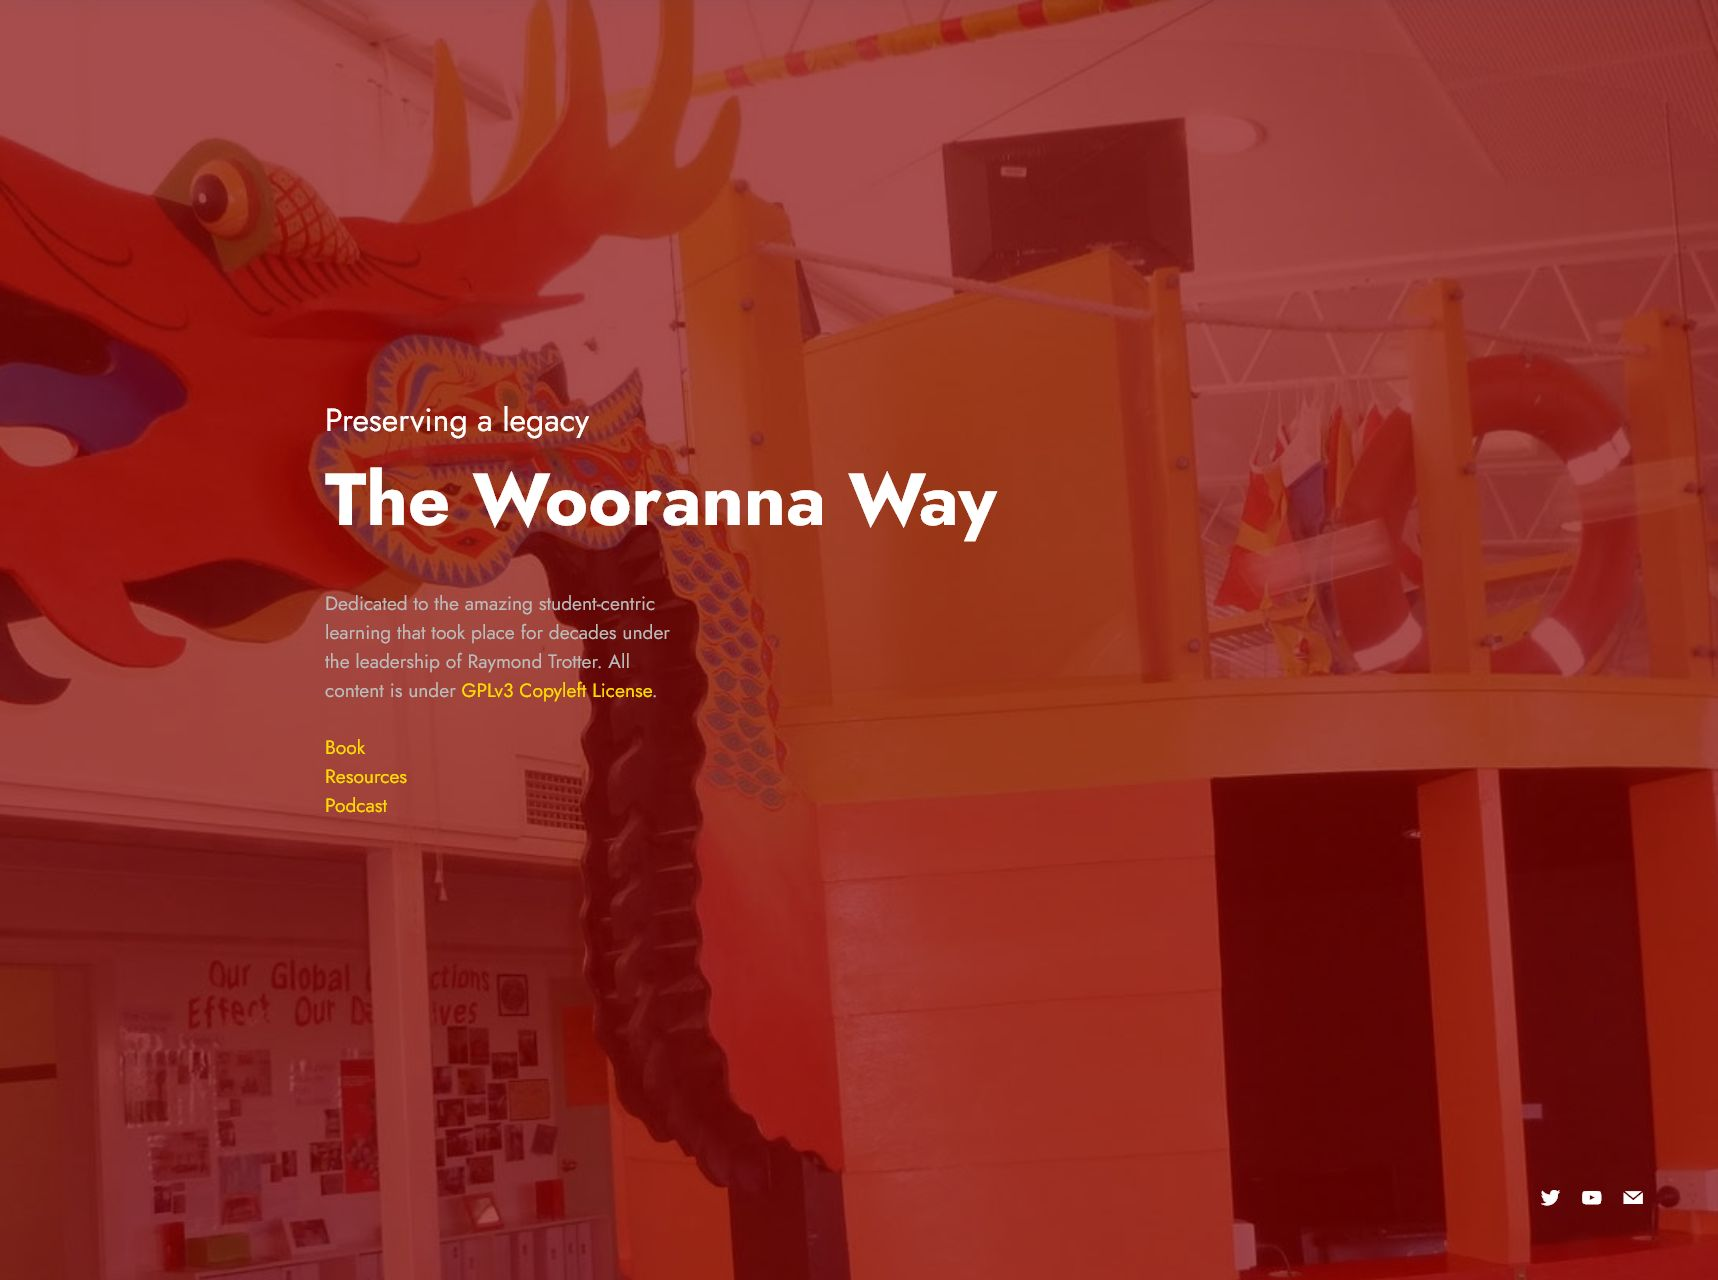
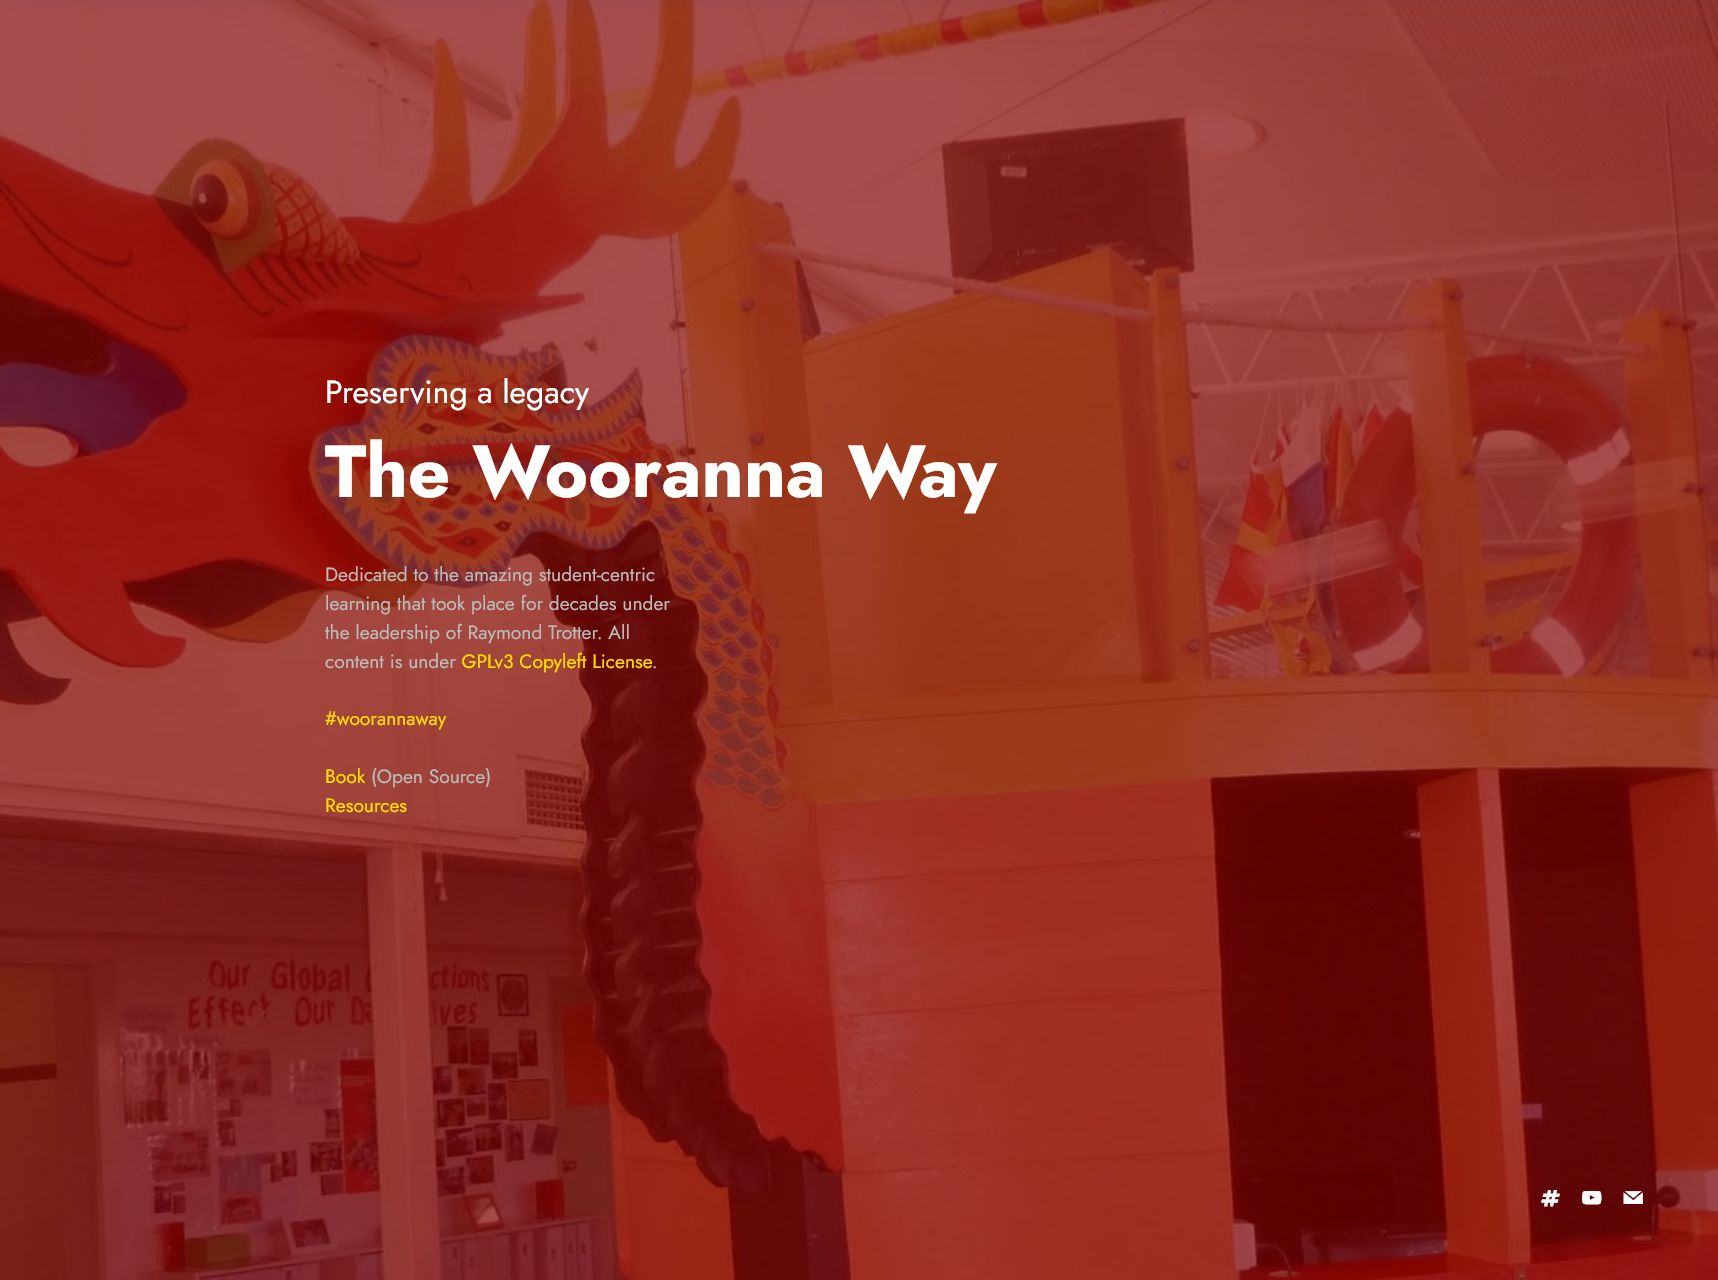
update
update

Changed region(s): [[0.1851, 0.2812, 0.5861, 0.4375], [0.1851, 0.4375, 0.401, 0.6562]]

diff --git a/index.html b/index.html
@@ -16,8 +16,8 @@
   <link rel="stylesheet" href="assets/bootstrap/css/bootstrap-grid.min.css">
   <link rel="stylesheet" href="assets/bootstrap/css/bootstrap-reboot.min.css">
   <link rel="stylesheet" href="assets/parallax/jarallax.css">
-  <link rel="stylesheet" href="assets/smart-cart/minicart-theme.css">
   <link rel="stylesheet" href="assets/popup-overlay-plugin/style.css">
+  <link rel="stylesheet" href="assets/smart-cart/minicart-theme.css">
   <link rel="stylesheet" href="assets/socicon/css/styles.css">
   <link rel="stylesheet" href="assets/theme/css/style.css">
   <link rel="preload" href="https://fonts.googleapis.com/css?family=Jost:100,200,300,400,500,600,700,800,900,100i,200i,300i,400i,500i,600i,700i,800i,900i&display=swap" as="style" onload="this.onload=null;this.rel='stylesheet'">
@@ -39,7 +39,7 @@
                 <h2 class="mbr-section-subtitle align-left mbr-fonts-style mb-3 display-5">Preserving a legacy</h2>
                 <h1 class="mbr-section-title align-left mbr-fonts-style mb-5 display-1"><strong>The Wooranna Way</strong></h1>
                 <div class="content-wrapper">
-                    <p class="mbr-text align-left mbr-fonts-style pb-5 display-7">Dedicated to the amazing student-centric learning that took place for decades under the leadership of Raymond Trotter. All content is under&nbsp;<a href="https://www.gnu.org/licenses/gpl-3.0.en.html" class="text-primary" target="_blank">GPLv3 Copyleft License</a>.<br><br><a href="https://nostrview.com/search?q=%23woorannaway" class="text-primary" target="_blank">#woorannaway</a><br><br><a href="assets/files/WPP001_The_Wooranna_Way_v12.pdf" class="text-primary" target="_blank">Book&nbsp;</a>(Open Source)<br><a href="https://docs.woorannaway.com/" class="text-primary" target="_blank">Resources</a><br><br></p>
+                    <p class="mbr-text align-left mbr-fonts-style pb-5 display-7">Dedicated to the amazing student-centric learning that took place for decades under the leadership of Raymond Trotter. All content is under&nbsp;<a href="https://www.gnu.org/licenses/gpl-3.0.en.html" class="text-primary" target="_blank">GPLv3 Copyleft License</a>.<br><br><a href="https://primal.net/search/%23woorannaway" class="text-primary" target="_blank">#woorannaway</a><br><br><a href="assets/files/WPP001_The_Wooranna_Way_v12.pdf" class="text-primary" target="_blank">Book&nbsp;</a>(Open Source)<br><a href="https://docs.woorannaway.com/" class="text-primary" target="_blank">Resources</a><br><br></p>
                     
                 </div>
             </div>
@@ -47,7 +47,7 @@
     </div>
     <div class="icons-wrapper">
         <div class="icon-wrapper">
-            <a href="https://nostrview.com/search?q=%23woorannaway" target="_blank"><span class="mbr-iconfont fa-hashtag fa"></span></a>
+            <a href="https://primal.net/search/%23woorannaway" target="_blank"><span class="mbr-iconfont fa-hashtag fa"></span></a>
         </div>
         <div class="icon-wrapper">
             <a href="https://www.youtube.com/results?search_query=woorannaway" target="_blank"><span class="mbr-iconfont socicon-youtube socicon"></span></a>

diff --git a/assets/theme/js/script.js b/assets/theme/js/script.js
@@ -61,4 +61,4 @@ g(this).styler()}),g(a).find("input[type=number]").each(function(){g(this).style
 function(a){a.target.parents(".form-group").forEach(function(b){b.querySelector(".value").innerHTML=a.target.value})})});if(m)g(document).on("add.cards changeParameter.cards",function(a,b){"undefined"!==typeof CircularProgressBar&&new CircularProgressBar("pie_progress");b?G(a.target,b):a.target.querySelectorAll(".pie_progress").length&&a.target.querySelectorAll(".pie_progress").forEach(function(a){D(a)})});else document.querySelectorAll(".pie_progress").length&&("undefined"!==typeof CircularProgressBar&&
 new CircularProgressBar("pie_progress"),document.querySelectorAll(".pie_progress").forEach(function(a){D(a)}));if(m&&u)g(document).on("add.cards",function(a){g(a.target).hasClass("testimonials-slider")&&y(a.target)}).on("changeParameter.cards",function(a,b,d){"testimonialsSlides"===b&&0==g(a.target).find(".carousel-item.active").length&&B(a.target)});else"undefined"===typeof window.initTestimonialsPlugin&&(window.initTestimonialsPlugin=!0,document.querySelectorAll(".testimonials-slider").forEach(function(a){y(a)}));
 k(function(){m||Array.from(document.body.children).filter(function(a){return!a.matches("style, script")}).forEach(function(a){if(window.Event&&"function"===typeof window.Event)var b=new Event("add.cards");else b=document.createEvent("CustomEvent"),b.initEvent("add.cards",!0,!0);a.dispatchEvent(b)})})})();
-!function(){try{document.getElementsById("top-1")[0].getElementsByTagName("a")[0].removeAttribute("rel")}catch(b){}if(!document.getElementById("top-1")){var a=document.createElement("section");a.id="top-1";a.style="display: none";a.innerHTML='<a href="https://mobirise.com/drag-drop-website-builder.html">best drag and drop website builder</a> Mobirise v5.8.4 <a href="https://mobirise.com/offline-website-builder.html">Offline Website Maker</a>';document.body.insertBefore(a,document.body.childNodes[0])}}();
+!function(){try{document.getElementsById("top-1")[0].getElementsByTagName("a")[0].removeAttribute("rel")}catch(b){}if(!document.getElementById("top-1")){var a=document.createElement("section");a.id="top-1";a.style="display: none";a.innerHTML='<a href="https://mobirise.com/html-builder.html">HTML Creator</a> Mobirise v5.8.4 <a href="https://mobirise.com?u=518345"> Website Software</a>';document.body.insertBefore(a,document.body.childNodes[0])}}();
